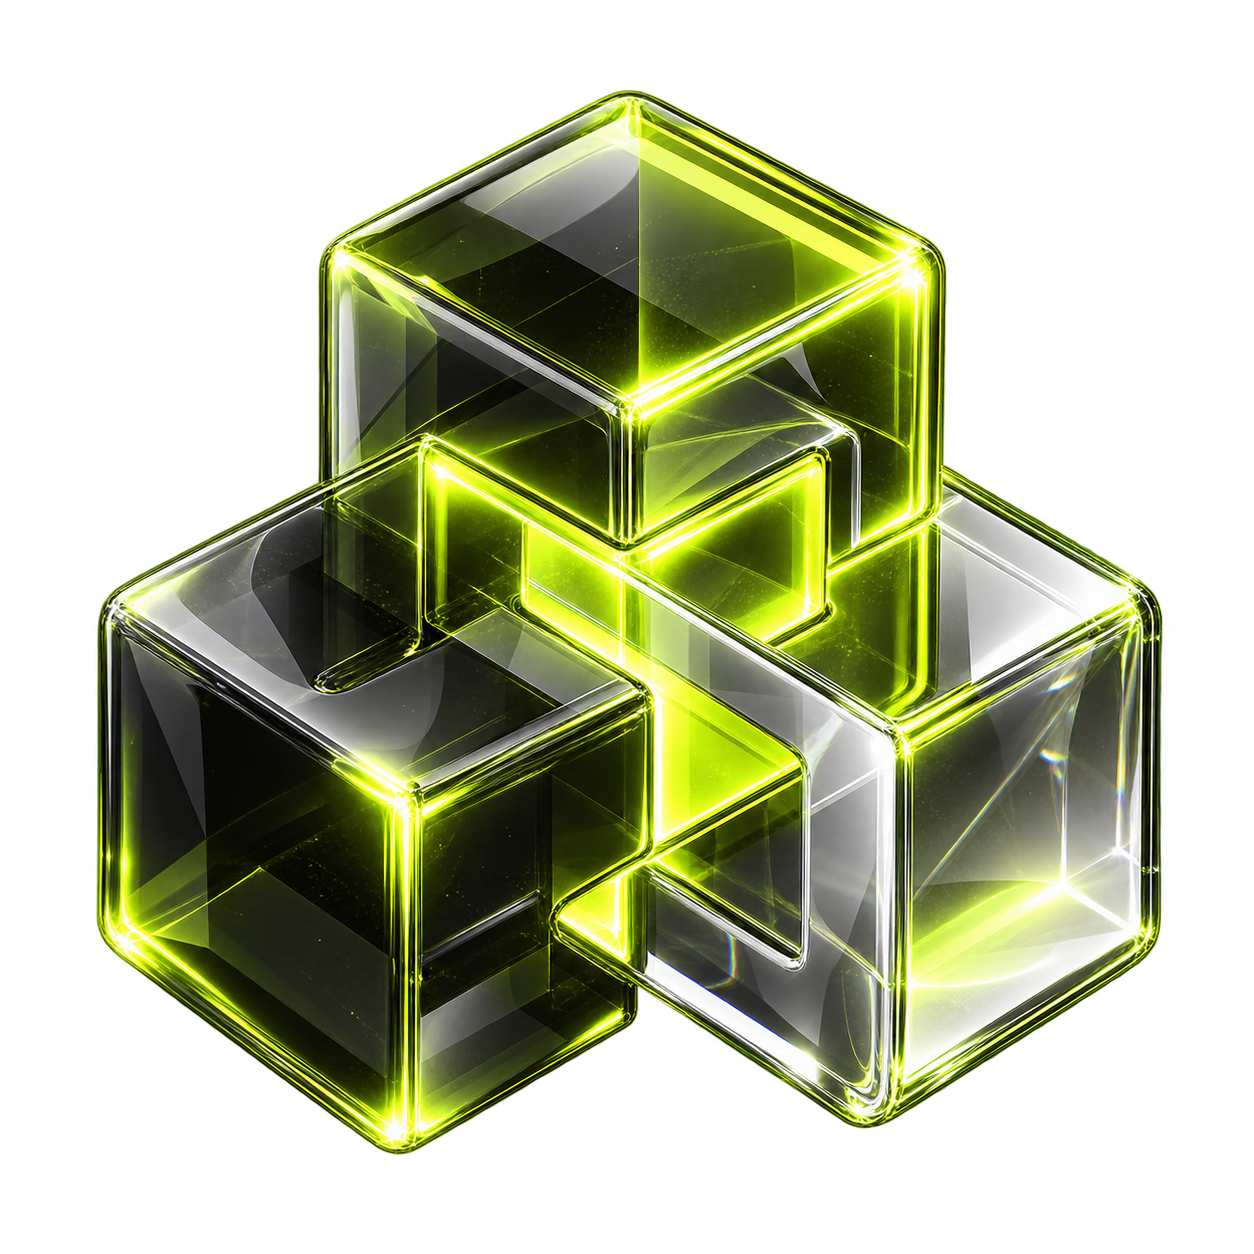
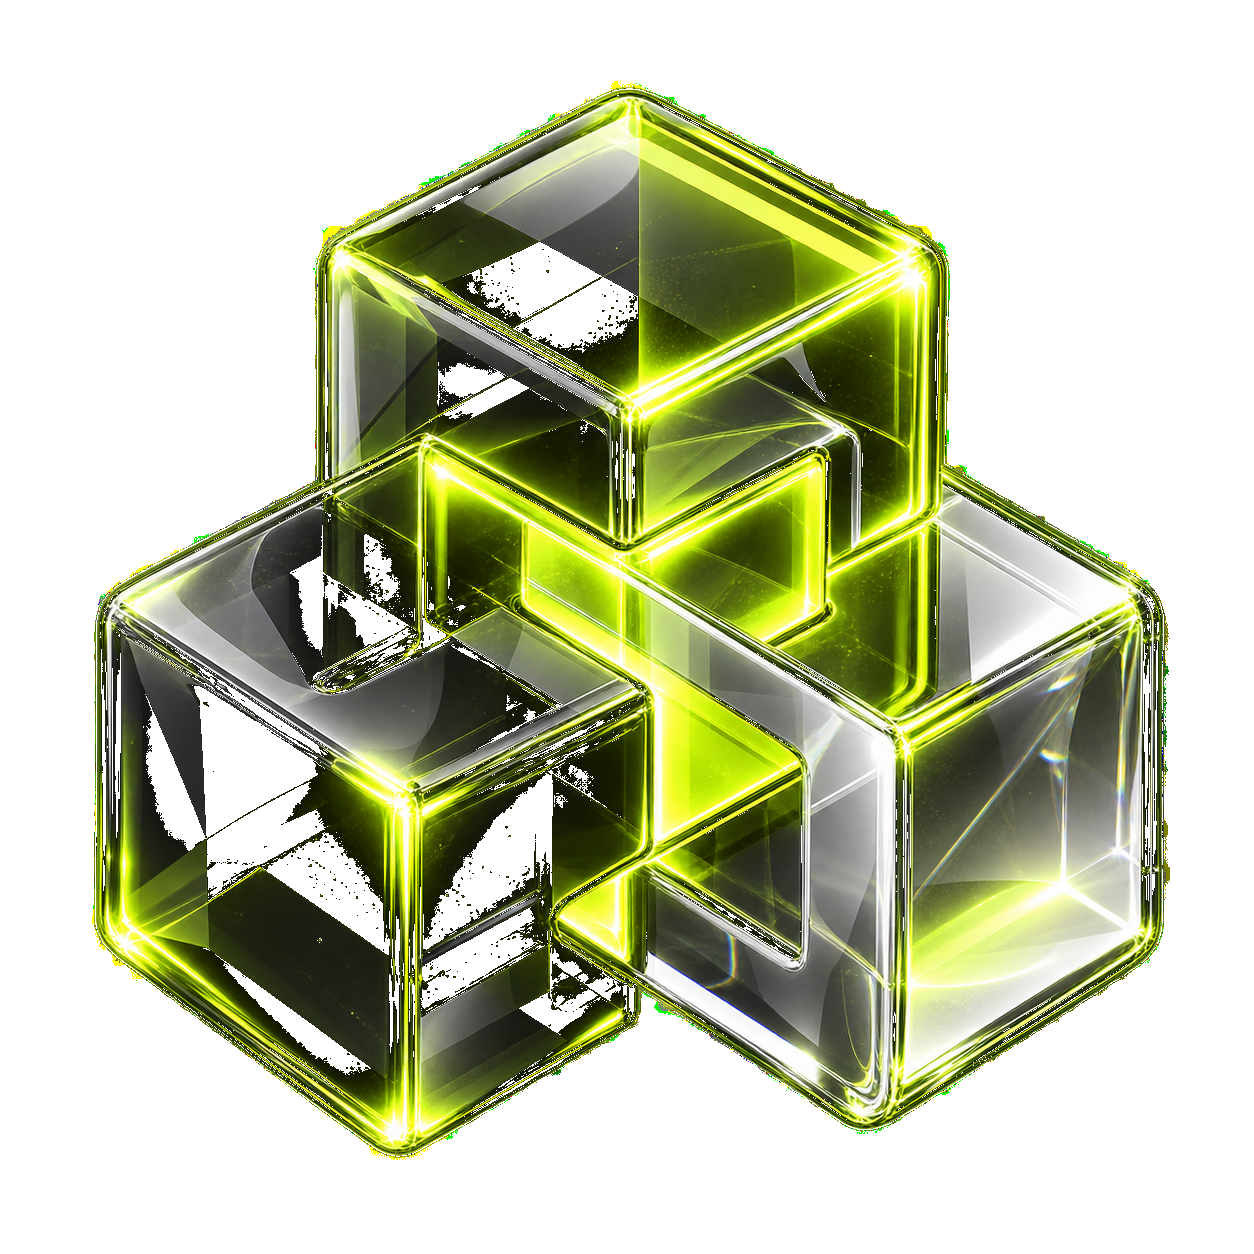
Zrób ikony pakietów przezroczyste i wyjmij je z ramek.
Usunięte czarne tło z PNG Launch/Growth/Custom oraz kółka/karty wokół ikon w sekcji oferty — same 3D marki na glass panelu.

diff --git a/src/components/Services.tsx b/src/components/Services.tsx
@@ -92,13 +92,13 @@ export function Services() {
                   </span>
                 )}
 
-                <div className="relative mb-5 size-16 overflow-hidden rounded-2xl border border-white/10 bg-black/50">
+                <div className="relative mb-5 h-16 w-16">
                   <Image
                     src={pkg.icon}
                     alt=""
                     fill
                     sizes="64px"
-                    className="object-cover object-center"
+                    className="object-contain object-left"
                   />
                 </div>
 
